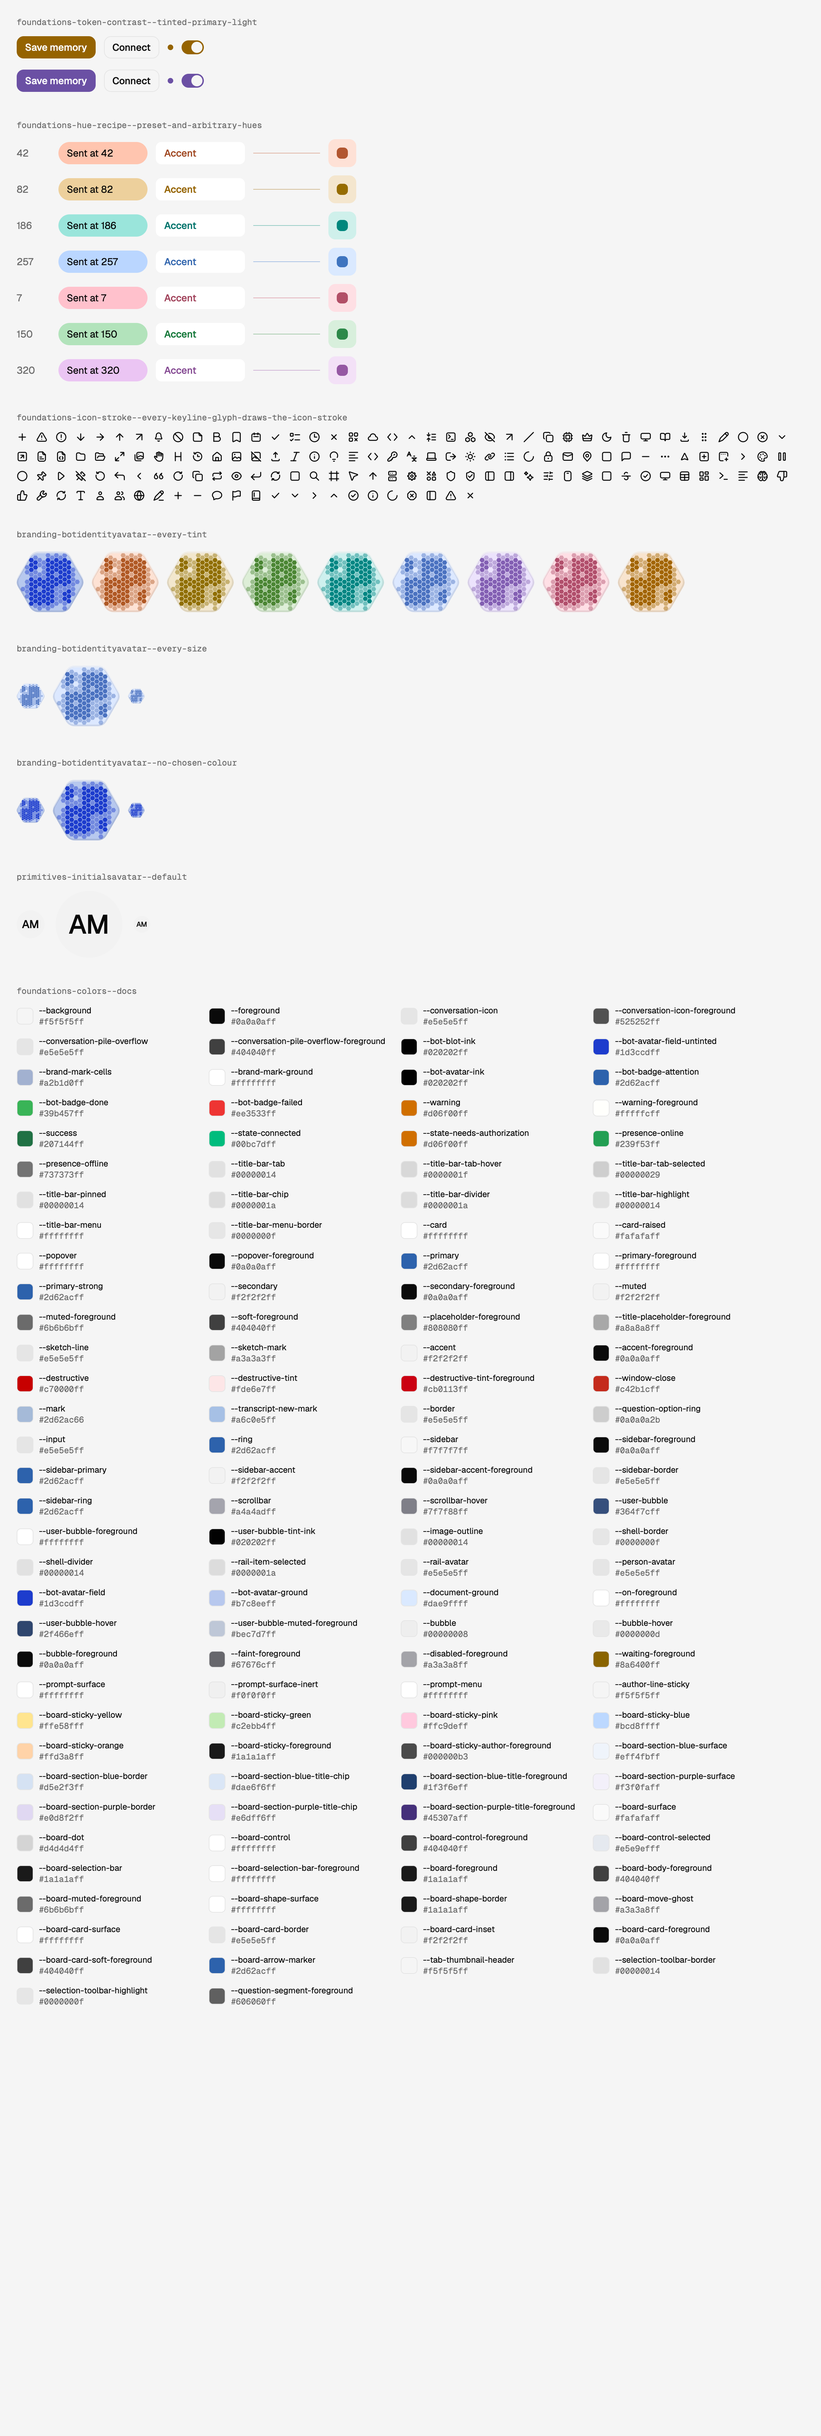
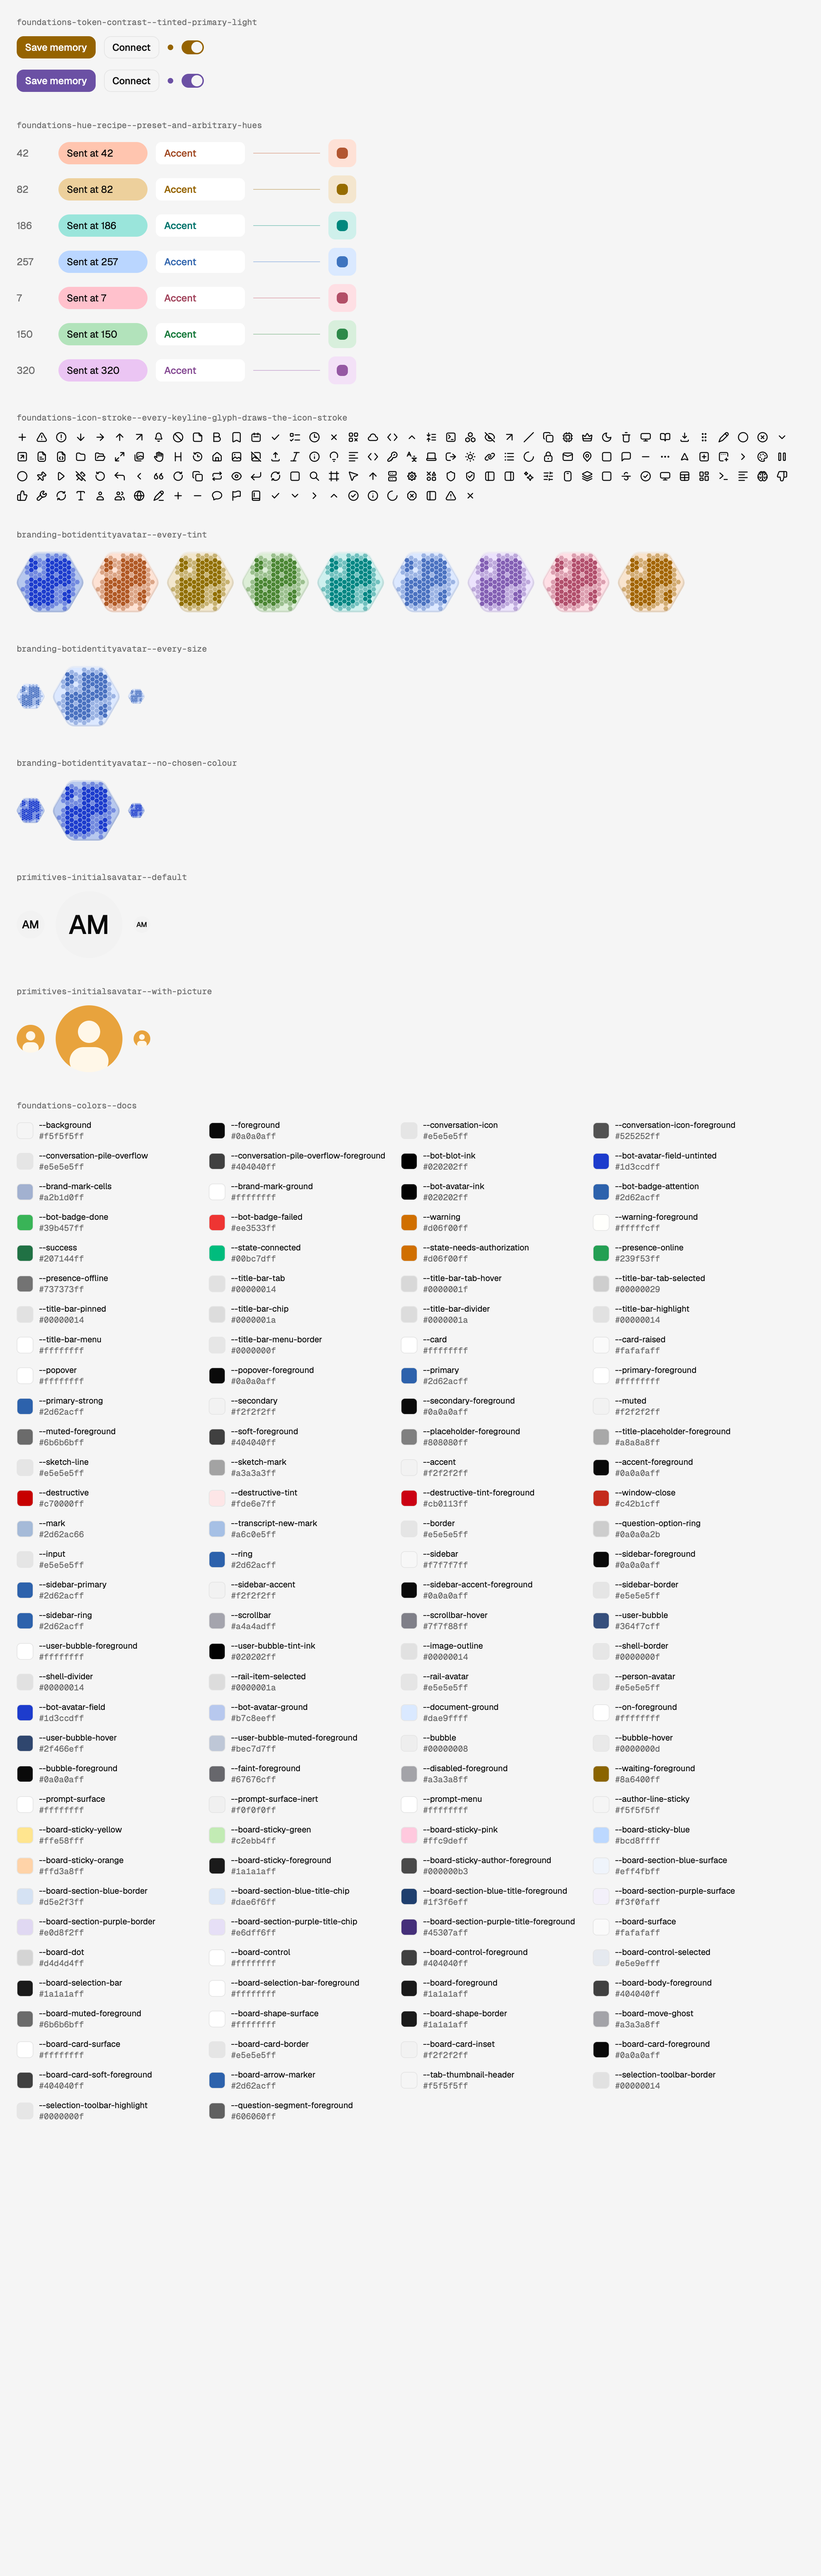
feat(rune-preview): stroke the onboarding arrows as the browser does and show a person's picture in the comparison scene (OPE-1967)

diff --git a/apps/rune-preview/kit/src/foundations.rs b/apps/rune-preview/kit/src/foundations.rs
@@ -1,3 +1,4 @@
+use rune::image::Image;
 use rune::{El, Icon, ScrollSpec, col, el, icon, row, text};
 
 use crate::avatar::{Face, Person};
@@ -17,6 +18,7 @@ const EVERY_TINT: &str = "branding-botidentityavatar--every-tint";
 const EVERY_SIZE: &str = "branding-botidentityavatar--every-size";
 const NO_CHOSEN_COLOUR: &str = "branding-botidentityavatar--no-chosen-colour";
 const PERSON: &str = "primitives-initialsavatar--default";
+const PERSON_WITH_PICTURE: &str = "primitives-initialsavatar--with-picture";
 
 const SHOWCASED_TINTS: [Preset; 2] = [Preset::Yellow, Preset::Purple];
 const RECIPE_HUES: [f32; 7] = [42.0, 82.0, 186.0, 257.0, 7.0, 150.0, 320.0];
@@ -24,6 +26,7 @@ const RECIPE_COLUMNS: [f32; 5] = [48.0, 128.0, 128.0, 96.0, 64.0];
 const AVATAR_NAME: &str = "Atlas";
 const PERSON_NAME: &str = "Ada Martin";
 const EVERY_SIZE_SIDES: [f32; 3] = [40.0, 96.0, 24.0];
+pub const PICTURE_SIDE: f32 = 96.0;
 const EVERY_TINT_SIDE: f32 = 96.0;
 const EVERY_TINT_ORDER: [Preset; 8] = [
 	Preset::Red,
@@ -52,7 +55,7 @@ const GLYPH_SIDE: f32 = 16.0;
 const SWATCH_WIDTH: f32 = 264.0;
 const STORY_PADDING: f32 = SPACING * 6.0;
 
-pub fn comparison(t: &Tokens) -> El {
+pub fn comparison(t: &Tokens, picture: Option<&Image>) -> El {
 	let tinted_primary = if t.dark {
 		"foundations-token-contrast--tinted-primary-dark"
 	} else {
@@ -71,7 +74,8 @@ pub fn comparison(t: &Tokens) -> El {
 		.child(block(t, EVERY_TINT, every_tint(t)))
 		.child(block(t, EVERY_SIZE, every_size(t, Some(Preset::Blue.hue()))))
 		.child(block(t, NO_CHOSEN_COLOUR, every_size(t, None)))
-		.child(block(t, PERSON, people(t)))
+		.child(block(t, PERSON, people(t, None)))
+		.child(block(t, PERSON_WITH_PICTURE, people(t, picture)))
 		.child(block(t, TOKEN_SHEET, token_sheet(t)))
 }
 
@@ -199,9 +203,9 @@ fn every_size(t: &Tokens, hue: Option<f32>) -> El {
 	})
 }
 
-fn people(t: &Tokens) -> El {
+fn people(t: &Tokens, image: Option<&Image>) -> El {
 	EVERY_SIZE_SIDES.iter().fold(row().center_y().gap(SPACING * 4.0), |avatars, side| {
-		avatars.child(Person { name: PERSON_NAME, image: None }.draw(*side, t))
+		avatars.child(Person { name: PERSON_NAME, image }.draw(*side, t))
 	})
 }
 

diff --git a/apps/rune-preview/kit/src/tokens/tests.rs b/apps/rune-preview/kit/src/tokens/tests.rs
@@ -177,10 +177,17 @@ fn radius_spacing_type_and_stroke_tokens_are_the_css_values() {
 	assert_eq!(value(theme, "--font-heading"), format!("\"{} Variable\", sans-serif", FAMILIES.0));
 	assert_eq!(value(theme, "--font-mono"), format!("\"{} Variable\", monospace", FAMILIES.1));
 	assert_eq!(value(root, "--icon-stroke"), format!("{ICON_STROKE_EM}em"));
-	let story_font_size = 16.0;
-	let story_glyph_size = 16.0;
-	let stroke = ICON_STROKE_EM * story_font_size * 24.0 / story_glyph_size;
-	assert!((ICON_STROKE - stroke).abs() < 1e-4);
+	let story_text = TextStyle::new(16.0, 400.0);
+	assert!((ICON_STROKE - icon_stroke_in(story_text)).abs() < 1e-4);
+	let globals = generated::read(&format!("{PACKAGES_UI}/src/styles/globals.css"));
+	let Some(rule) = globals.find("svg[focusable=\"false\"] {") else {
+		panic!("no Keyline stroke rule")
+	};
+	let stroke_width = declared_in(&globals[rule..], "stroke-width");
+	let Some(ratio) = stroke_width.strip_prefix("calc(var(--icon-stroke) * ") else {
+		panic!("{stroke_width} is not a share of --icon-stroke")
+	};
+	assert_eq!(quotient(&format!("calc({ratio}")), ICON_STROKE_GLYPH_RATIO);
 }
 
 fn declared_in(block: &str, name: &str) -> String {
@@ -214,4 +221,10 @@ fn the_bubble_text_is_the_chat_typeset_at_48rem_and_up() {
 	let leading = quotient(&declared_in(chat, "--typeset-leading"));
 	assert_eq!(TEXT_BUBBLE.size, size);
 	assert!((TEXT_BUBBLE.line_height - size * leading).abs() < 1e-4);
+}
+
+#[test]
+fn the_onboarding_arrows_stroke_as_the_browser_draws_them_in_a_text_sm_button() {
+	let measured_in_storybook = 1.89;
+	assert!((icon_stroke_in(TEXT_SM) - measured_in_storybook).abs() < 1e-3);
 }

diff --git a/apps/rune-preview/kit/examples/foundations.rs b/apps/rune-preview/kit/examples/foundations.rs
@@ -1,17 +1,35 @@
-use kiroshi_rune_kit::foundations::{self, SCENE};
+use kiroshi_rune_kit::foundations::{self, PICTURE_SIDE, SCENE};
 use kiroshi_rune_kit::tokens::{self, Tokens};
-use rune::{AppSpec, Cx, El};
+use rune::image::{Image, ImageCache};
+use rune::{AppSpec, Cx, El, Waker};
+
+const UPLOADED_AVATAR_IMAGE: &str = "<svg xmlns='http://www.w3.org/2000/svg' viewBox='0 0 96 96'><rect width='96' height='96' fill='#e8a33d'/><circle cx='48' cy='38' r='16' fill='#fff7e8'/><rect x='20' y='60' width='56' height='40' rx='20' fill='#fff7e8'/></svg>";
+const PICTURE_SCALE: f32 = 2.0;
 
 #[derive(Default)]
-struct Sheet;
+struct Sheet {
+	images: Option<ImageCache>,
+	picture: Option<Image>,
+}
 
-fn view(_: &Sheet, cx: &mut Cx<Sheet>) -> El {
+fn setup(s: &mut Sheet, waker: Waker) {
+	let images = ImageCache::new(waker);
+	let picture = images.svg(UPLOADED_AVATAR_IMAGE.as_bytes(), PICTURE_SIDE, PICTURE_SCALE);
+	if let Err(failure) = picture.wait() {
+		eprintln!("the avatar picture didn't decode: {}", failure.0);
+	}
+	s.picture = Some(picture);
+	s.images = Some(images);
+}
+
+fn view(s: &Sheet, cx: &mut Cx<Sheet>) -> El {
 	let t = Tokens { reduced_motion: cx.is_reduced_motion(), ..Tokens::new(cx.system_dark()) };
-	rune_kit::root(foundations::comparison(&t), Vec::new())
+	rune_kit::root(foundations::comparison(&t, s.picture.as_ref()), Vec::new())
 }
 
 fn main() {
 	let spec = AppSpec {
+		setup: Some(setup),
 		scenes: &[(SCENE, |_| {})],
 		fonts: tokens::FONTS,
 		families: tokens::FAMILIES,

diff --git a/apps/rune-preview/app/src/onboarding.rs b/apps/rune-preview/app/src/onboarding.rs
@@ -8,7 +8,7 @@ use kiroshi_rune_kit::tokens::{
 	RADIUS_BUBBLE, RADIUS_CONTROL, SPACING, TEXT_10_MEDIUM, TEXT_BASE_SEMIBOLD, TEXT_COMPACT,
 	TEXT_COMPACT_MEDIUM, TEXT_COMPACT_MONO_MEDIUM, TEXT_COMPACT_SEMIBOLD, TEXT_INITIALS, TEXT_SM,
 	TEXT_SM_MEDIUM, TEXT_SM_SEMIBOLD, TEXT_TITLE, TEXT_XS, TEXT_XS_MEDIUM, TEXT_XS_MONO, Tokens,
-	tone,
+	icon_stroke_in, tone,
 };
 use kiroshi_rune_kit::widgets::{Pill, checkbox, field, radio, spinner};
 
@@ -235,9 +235,9 @@ fn welcome_footer(page: Page, t: &Tokens) -> Vec<El> {
 		.center_y()
 		.pt(SPACING * 3.0)
 		.pb(SPACING * 6.0)
-		.child(arrow(&icons::PREVIOUS, back, false))
+		.child(arrow(icons::stroked(&icons::PREVIOUS, icon_stroke_in(TEXT_SM)), back, false))
 		.child(segments)
-		.child(arrow(&icons::NEXT, next, true));
+		.child(arrow(icons::stroked(&icons::NEXT, icon_stroke_in(TEXT_SM)), next, true));
 	let action = if next.is_none() {
 		Pill::new("Get started").primary(t, leave_intro)
 	} else {

diff --git a/apps/rune-preview/kit/src/tokens.rs b/apps/rune-preview/kit/src/tokens.rs
@@ -22,7 +22,12 @@ pub const SHELL_INSET: f32 = SPACING * 2.0;
 pub const SIDEBAR_RAIL: f32 = 68.0;
 
 pub const ICON_STROKE_EM: f32 = 0.09;
+pub const ICON_STROKE_GLYPH_RATIO: f32 = 24.0 / 16.0;
 pub const ICON_STROKE: f32 = 2.16;
+
+pub fn icon_stroke_in(text: TextStyle) -> f32 {
+	ICON_STROKE_EM * text.size * ICON_STROKE_GLYPH_RATIO
+}
 
 pub const RADIUS: f32 = 10.0;
 pub const RADIUS_ROOT: f32 = RADIUS;
